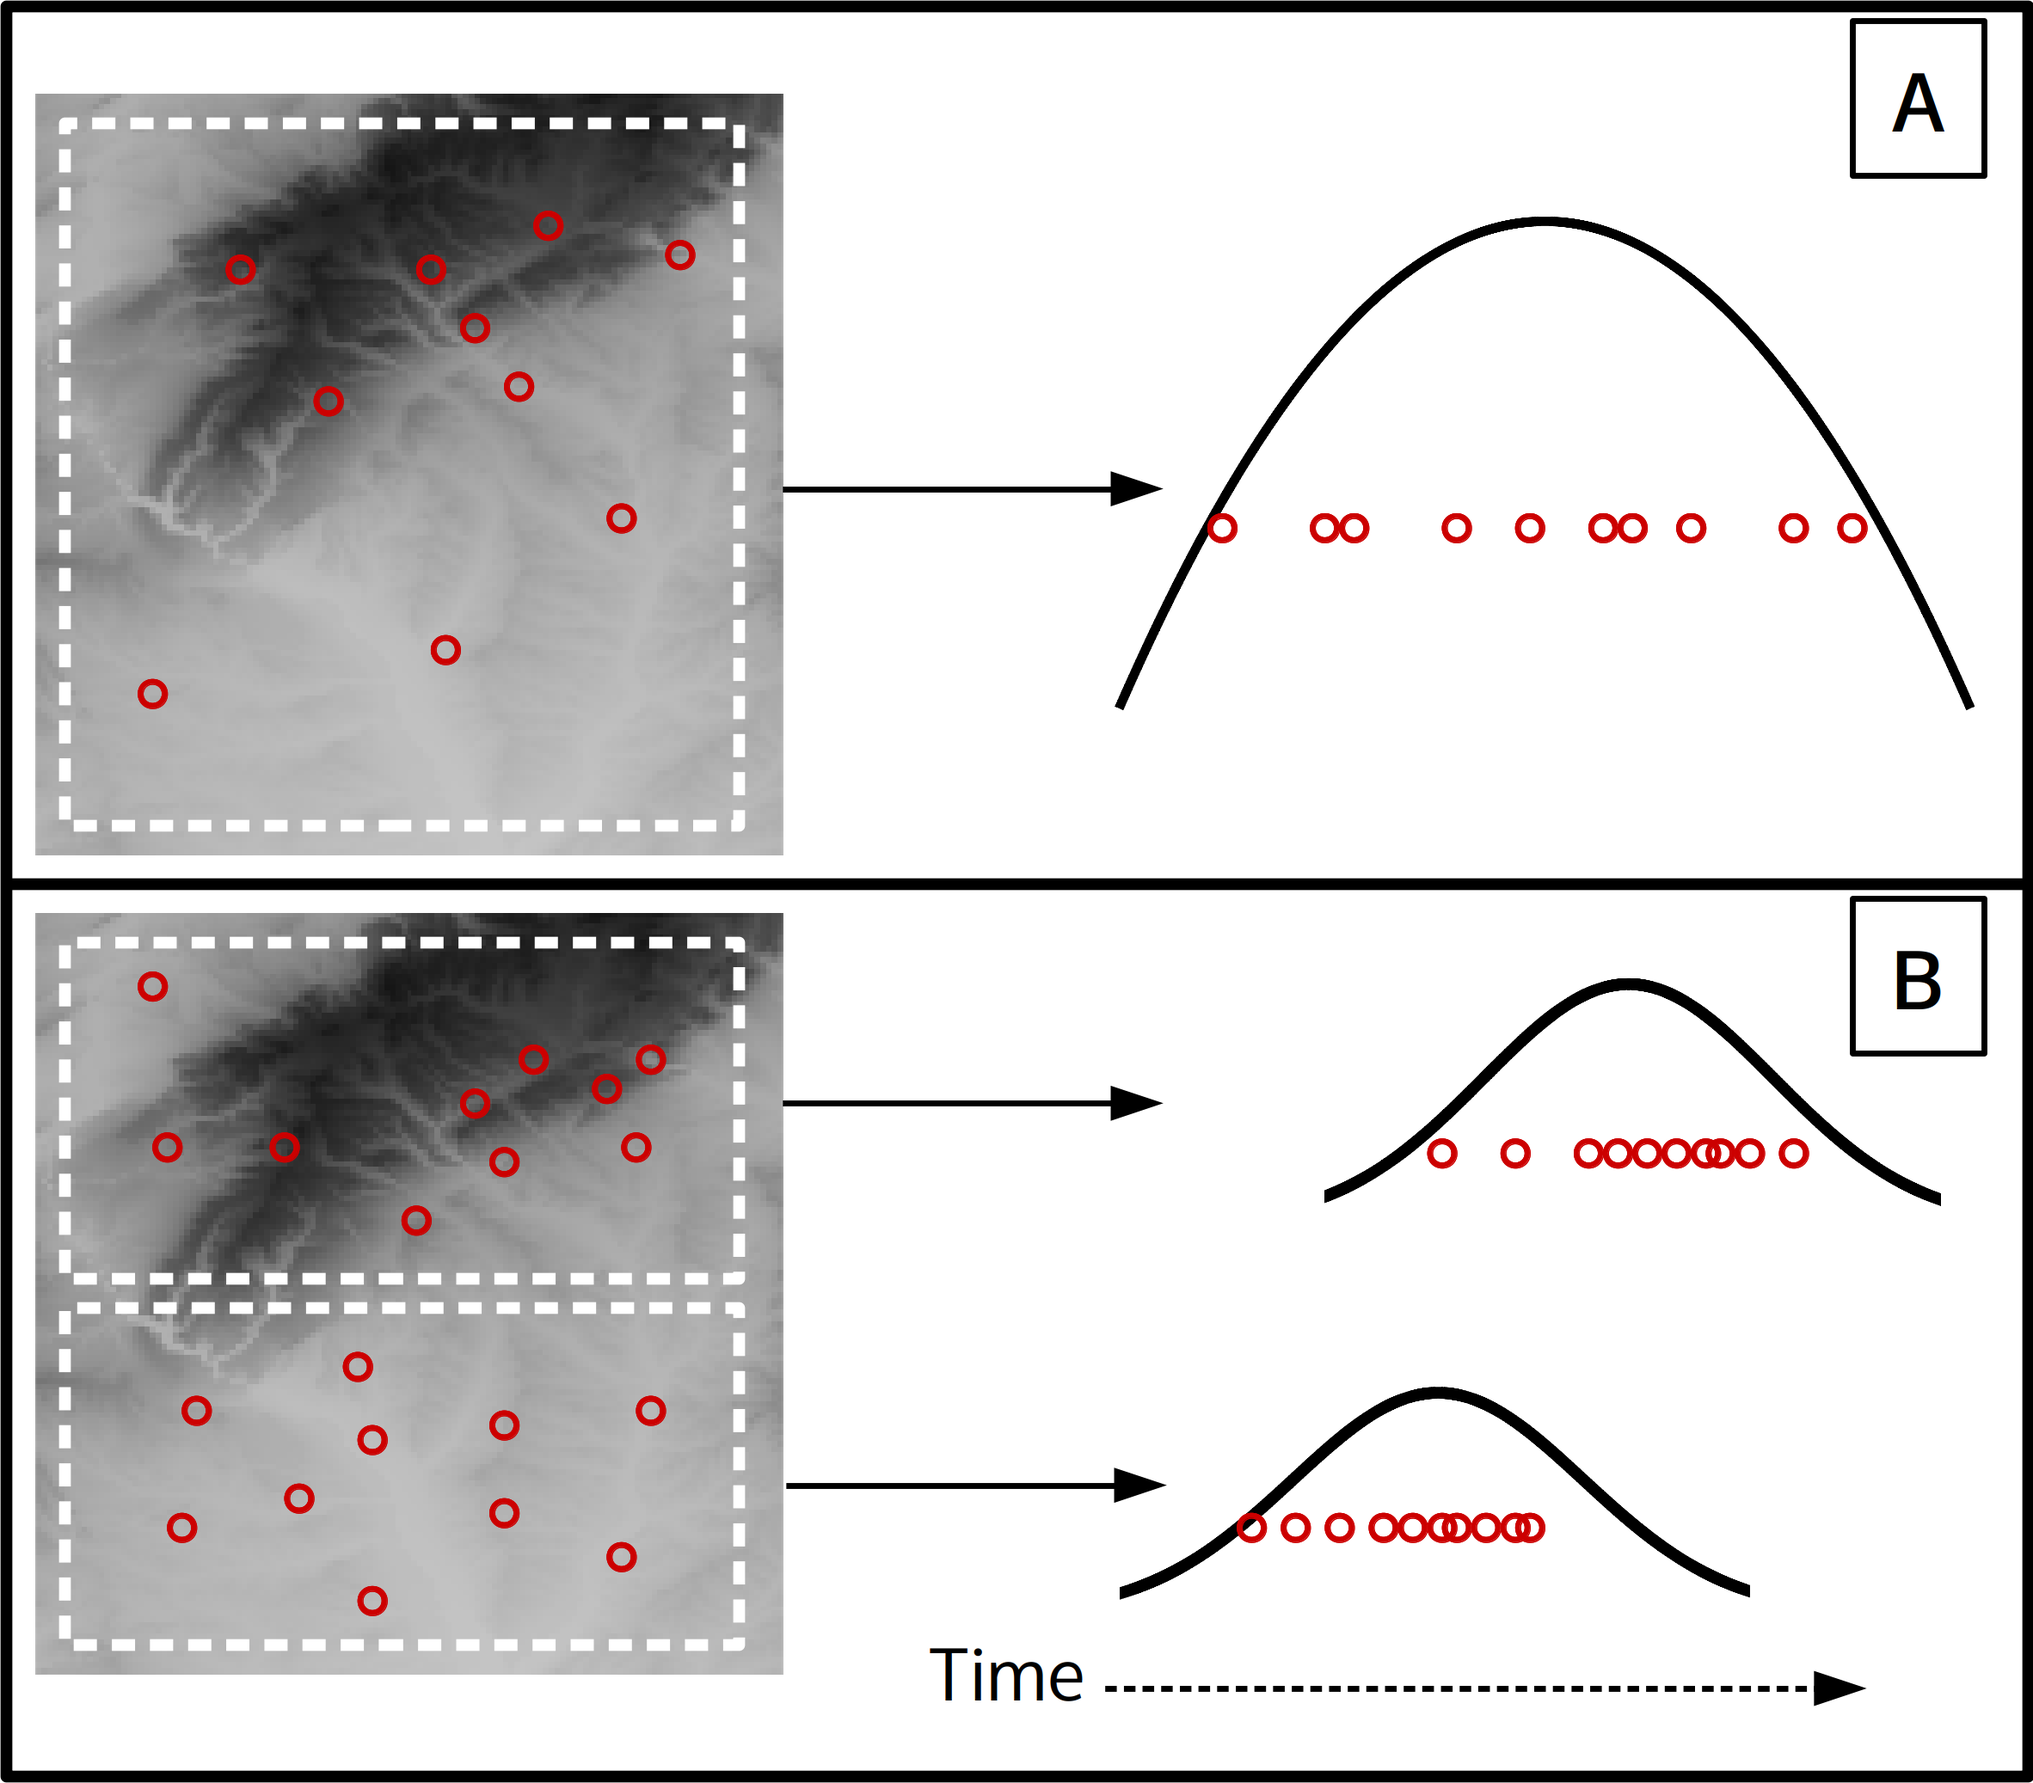
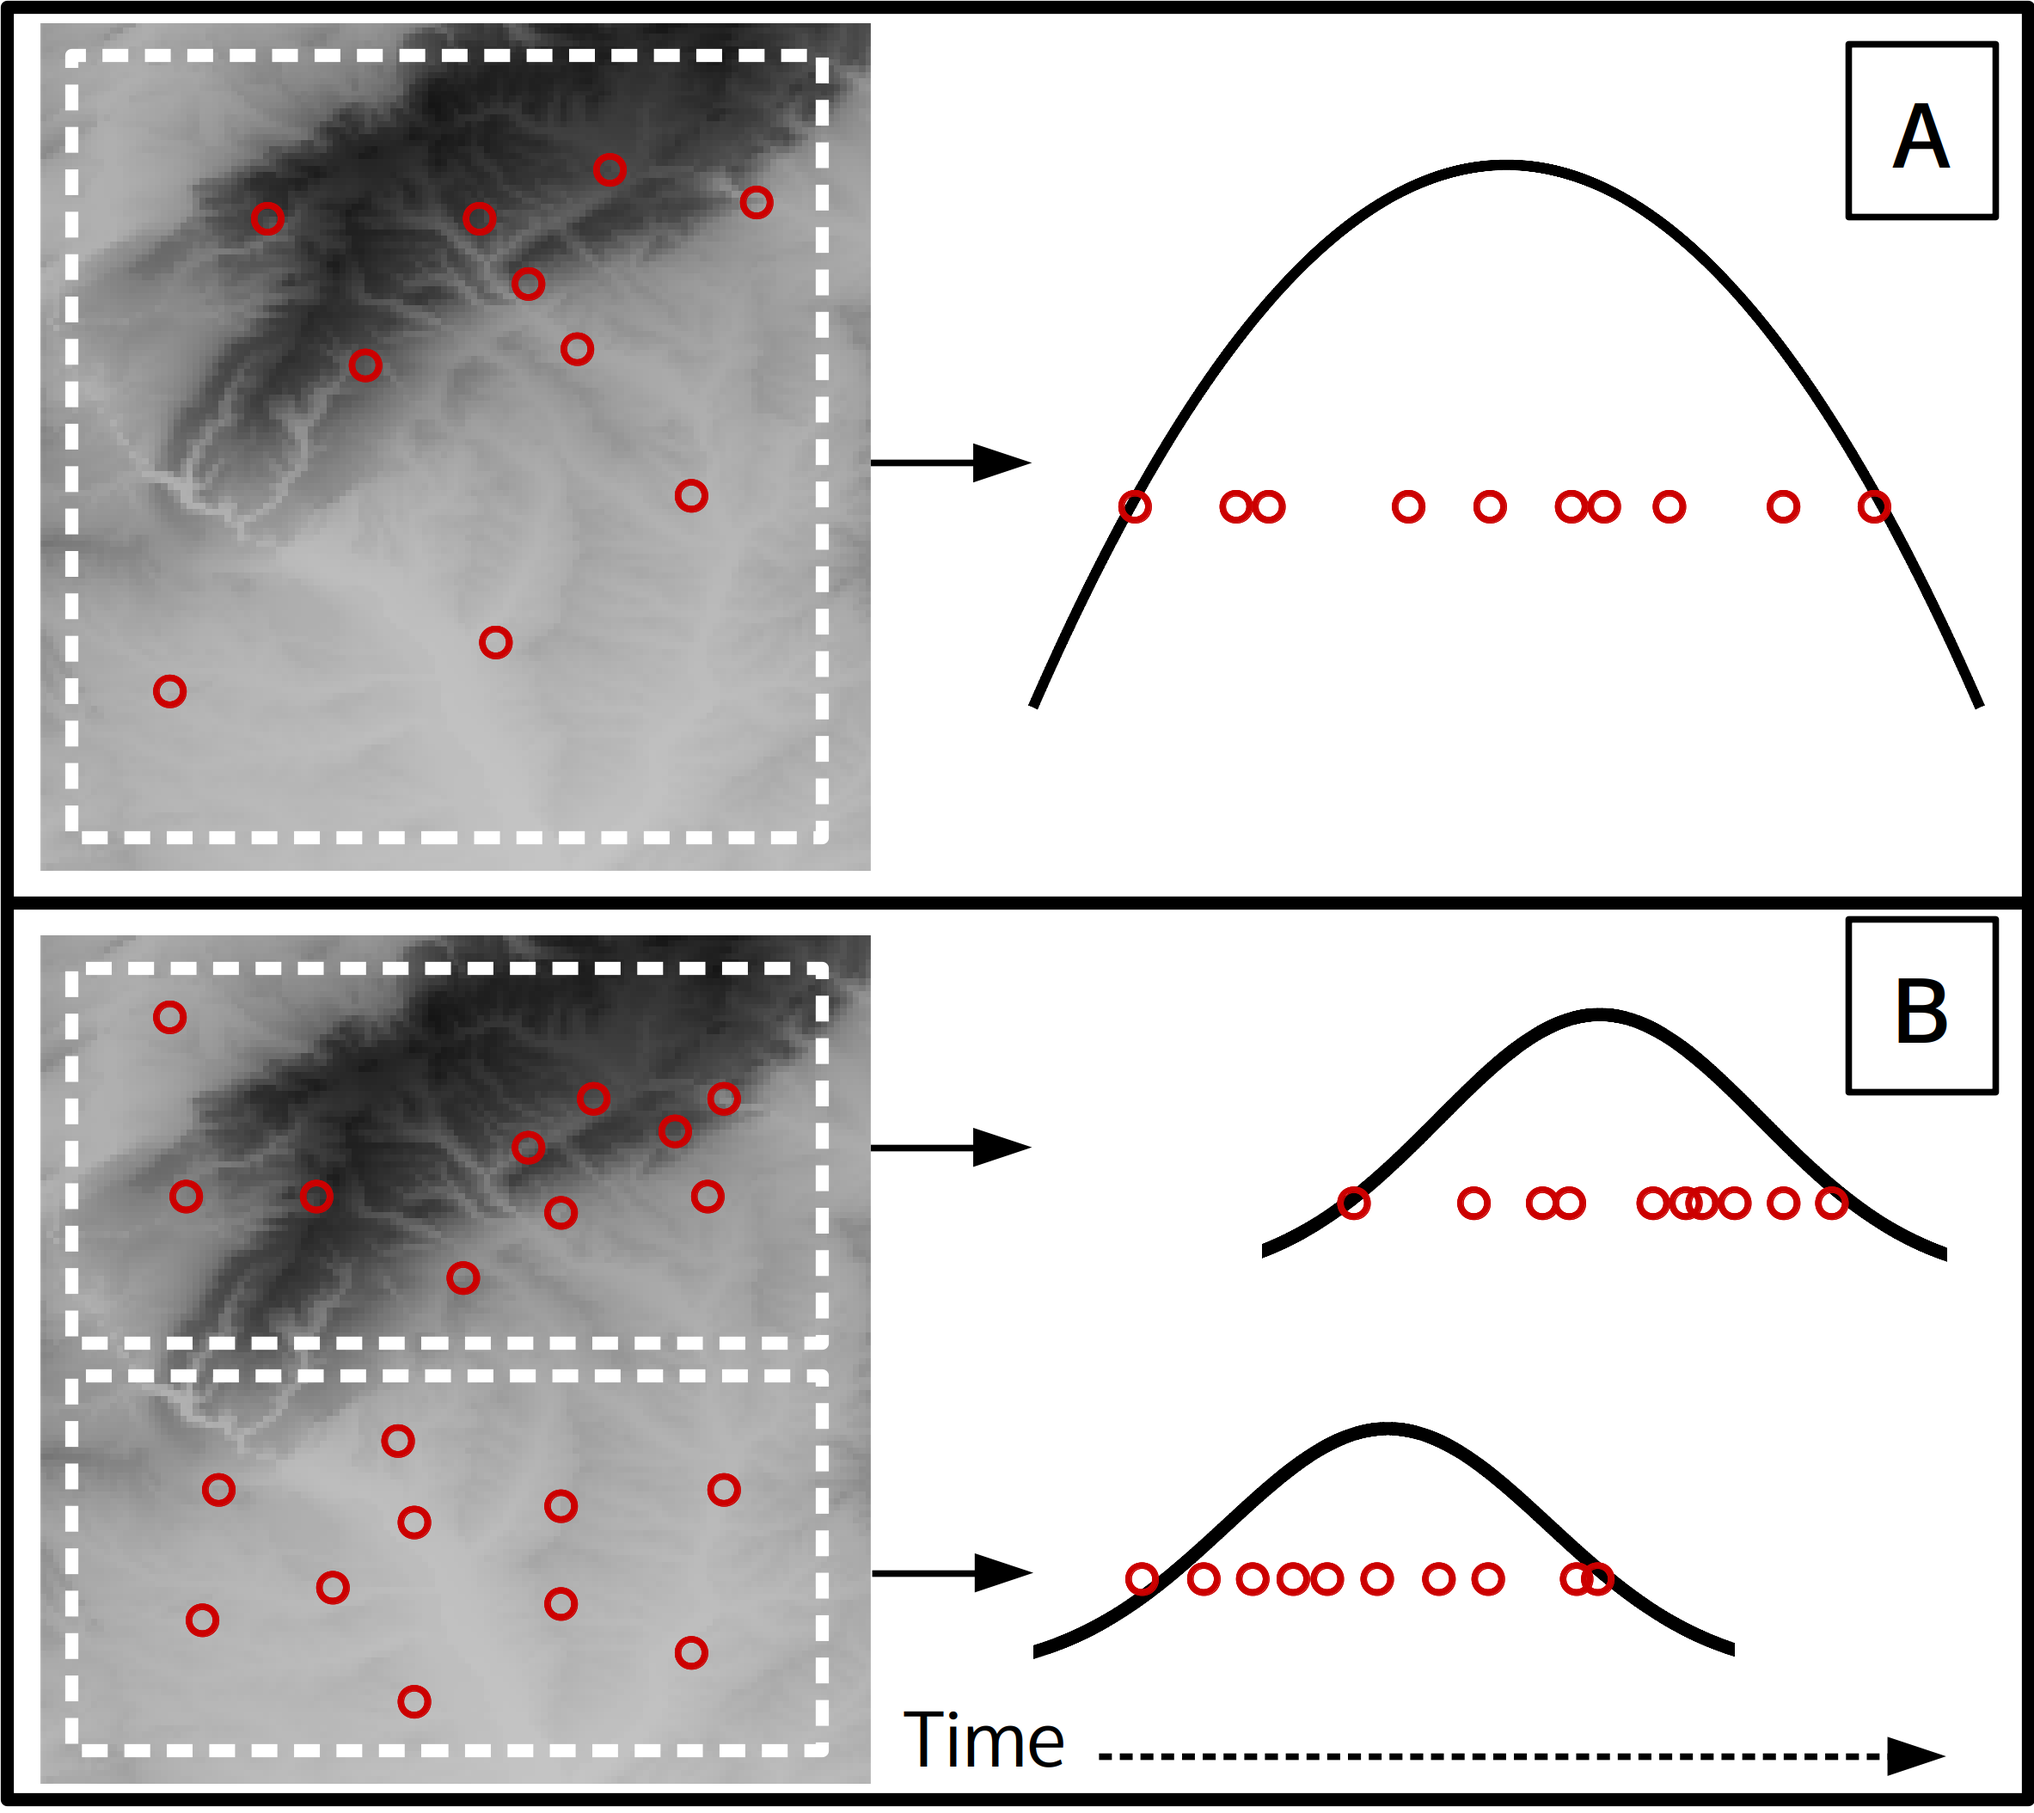
close to final edits
finalize spatial discussion
new fig5 version thats more compact
some new citations in into

diff --git a/manuscript/main.md b/manuscript/main.md
@@ -33,7 +33,7 @@ Keywords: onset, peak, flowering, budburst, sampling frequency, herbarium record
 # Introduction
 Plant phenology has a long history in ecological research and is a primary indicator of climate change [@chuine2017; @scheffers2016]. Studies commonly document the long-term trends of the first flower or leaf out dates, apply various modelling approaches to infer the drivers of these transitions, or make forecasts using future climate conditions. Phenological models, such as predictive models or those used for long-term trends, use the transition dates as the variable of interest. Common transition dates are First Observed open flowers or new leaves on a plant, but can also include peak flower, fruit maturation, and leaf senescence. Historic datasets often use repeated observations to identify the true transition date [@davis2015; @wolkovich2012], yet this is susceptible to observer bias [@miller-rushing2008]. Most modern studies and collection protocols use status-based monitoring, where over time observers record the current state of a single plant (ie. leaves present or absent) regardless of recent or impending transitions. This includes research using herbarium records, where the presence or absence of flowers and other phenophases is inferred from their presence on a specimen [@willis2017]. To make use of status-based data in most phenological models the transition date must first be estimated, and there are several methods available.
 
-Two of the most common estimators are the First Observed and Mean Flowering methods, where either the first observation in a year or the mean dates for all observations within a year is used as an estimate for a phenophase transition and peak dates, respectively [@willis2017]. The First Observed method has been shown to be biased in several instances, while the Mean Flowering date is considered a reliable estimator for the midpoint or peak of a phenophase [@miller-rushing2008; @moussus2010; @bertin2015]. Recently more robust methods have been introduced. -@templ2017 used survival modelling to estimate the median date of flowering and -@pearse2017 used an extinction model to estimate the first flowering date. Using repeated observations of individual plants, as opposed to observations from across a population, site, or region, allows for more reliable estimates. For example if flowers are not present during one visit but present during the next, the transition of flowers opening is constrained to the window between the two visits [@gerst2016]. Studies of bird migration phenology face similar challenges and several estimators have been used to model the first arrival dates. Examples include logistic regression [@mayor2017] and General Additive Models (GAMs) [@moussus2009; @newson2016; @linden2017]. To date no comparison has been made of these different transition date estimators for plant phenology. 
+Two of the most common estimators are the First Observed and Mean Flowering methods, where either the first observation in a year or the mean dates for all observations within a year is used as an estimate for a phenophase transition and peak dates, respectively [@miller-rushing2008; @caradonna2014; @willis2017; @jones2018]. The First Observed method has been shown to be biased in several instances, while the Mean Flowering date is considered a reliable estimator for the midpoint or peak of a phenophase [@miller-rushing2008; @moussus2010; @bertin2015]. Recently more robust methods have been introduced. -@templ2017 used survival modelling to estimate the median date of flowering and -@pearse2017 used an extinction model to estimate the first flowering date. Using repeated observations of individual plants, as opposed to observations from across a population, site, or region, allows for more reliable estimates. For example if flowers are not present during one visit but present during the next, the transition of flowers opening is constrained to the window between the two visits [@gerst2016]. Studies of bird migration phenology face similar challenges and several estimators have been used to model the first arrival dates. Examples include logistic regression [@mayor2017] and General Additive Models (GAMs) [@moussus2009; @newson2016; @linden2017]. To date no comparison has been made of these different transition date estimators for plant phenology. 
 
 Furthermore, there are no clear guidelines for using estimators across different spatial scales. Over a latitudinal gradient the transition of a phenophase for a single species can last several weeks to months, and even at the local scale can vary due to many factors [@diez2012; @zhang2017]. Studies which estimate transition dates have combined observations from individual plants [@gerst2016; @taylor2019], sites or populations of plants [@schaber2002; @linkosalo2008; @basler2016], or entire regions [@calinger2013; @park2014]. How different phenological estimators perform across spatial scales is currently unknown. 
 
@@ -155,7 +155,7 @@ Citizen science phenological data can be subset into two types: 1) those from so
 
 ![A theoretical scenario where 10 flowering observations are used to estimate onset across a landscape (A), and a second scenario where onset is estimated at a finer spatial grain on the same landscape (B). Curves indicate the theoretical flowering distribution over time for the respective area.](figs/fig_5_discussion_figure.png)
 
-This analysis used data from a single site, yet data from a larger spatial extent is more common. At these larger scales the underlying phenology of a species is affected by an array of biotic and abiotic factors which can cause different flowering times at distant locations [@diez2012; @dekeyzer2017; @prevey2017]. When combining phenological observations from different locations any transition estimates will be for some subset of the full flowering phenology across the species entire range (ie. the universal curve, @dekeyzer2017). The spatial extent and grain of the analysis will affect the minimum sample size needed and also what the estimates represent. For example consider a case where 10 observations of flowering are used to estimate onset (Fig. 5A), which represents flowering onset for the entire landscape. If the same landscape is subset to a finer spatial grain (Fig. 5B), then each of the two smaller spatial units could have an independent onset estimate, but would each require an adequate sample size. Also note that the onset estimate for the larger grain (Fig. 5A) will likely approximate the onset estimate of the earlier of the two smaller grain estimates, while the larger grain end estimate will approximate the later of the smaller grain estimates. The optimal spatial grain and observation density needed depends on the species being analysed and the large-scale gradients over which it occurs, and future studies should examine these relationships between spatial scales and phenology more closely.
+This analysis used data from a single site, yet with herbarium or citizen science data observations more commonly represent a large spatial extent. At these larger scales the underlying phenology of a species is affected by an array of biotic and abiotic factors which can cause different flowering times at distant locations [@diez2012; @dekeyzer2017; @prevey2017]. When combining phenological observations from different locations any transition estimates will be for some subset of the full flowering phenology across the species entire range (ie. the universal curve, @dekeyzer2017). The spatial extent and grain of the analysis will affect the minimum sample size needed and also what the estimates represent due to the modifiable areal unit problem [@jelinski1996]. For example consider a case where 10 observations of flowering from a single year are used to estimate onset (Fig. 5A), which represents flowering onset for the entire landscape. If the same landscape is subset to a finer spatial grain (Fig. 5B), then each of the two smaller spatial units could have an independent onset estimate, but would each require an adequate sample size. Also note that the onset estimate for the larger grain (Fig. 5A) will likely approximate the onset estimate of the earlier of the two smaller grain estimates, while the larger grain end estimate will approximate the later of the smaller grain estimates. Previous studies used political boundaries as the spatial unit [@park2014; @pearse2017], though the optimal spatial grain and observation density needed likely depends on the species being analysed and the large-scale gradients over which it occurs. Future studies should examine these relationships between spatial scales and phenology more closely.
 
 ## Conclusion
 
